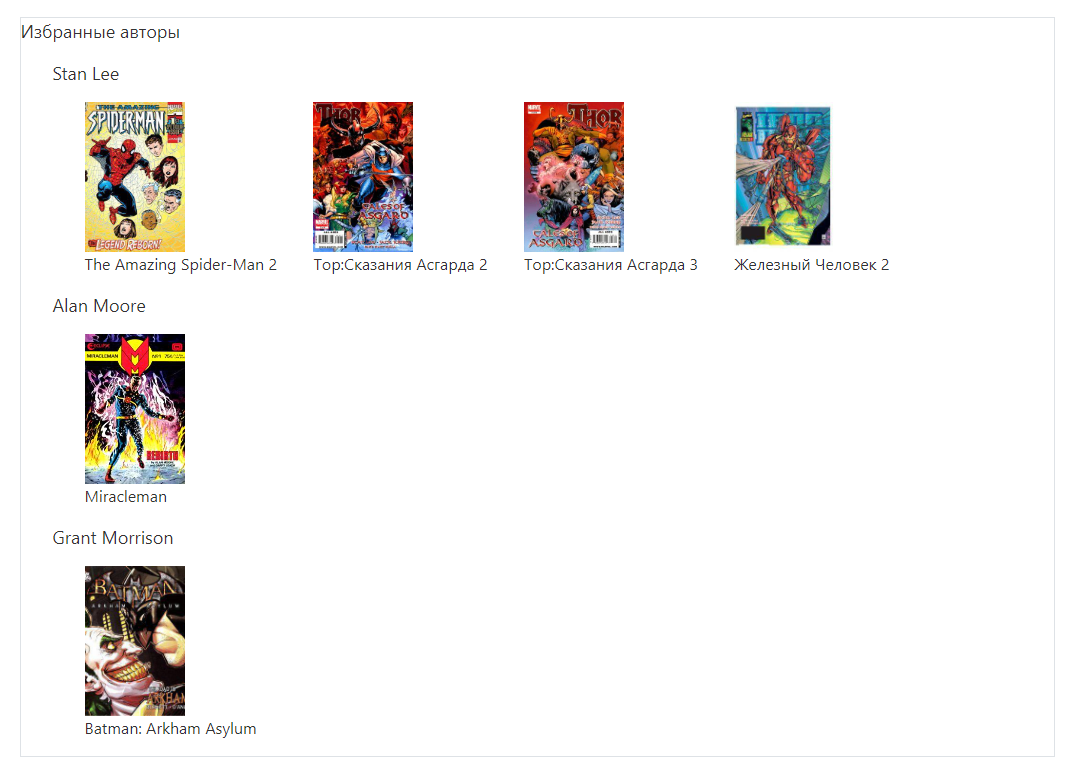
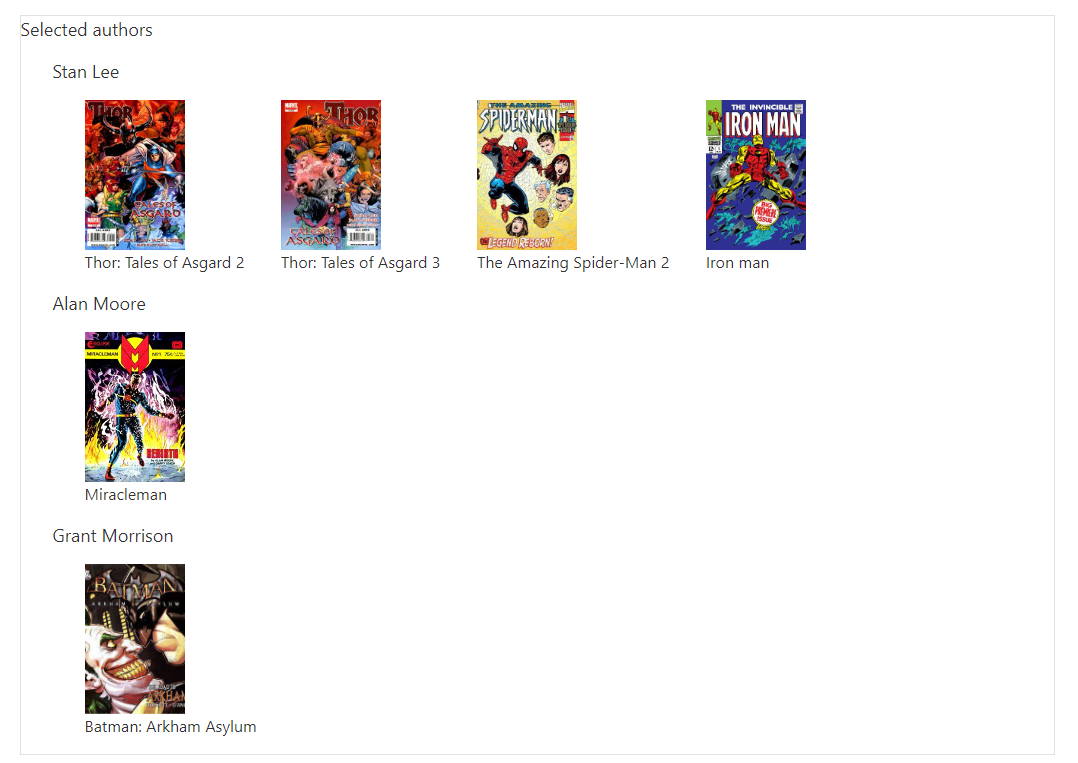
Translated README.md and comics descriptions to english

diff --git a/src/main/resources/templates/cabinet/cabinet.html b/src/main/resources/templates/cabinet/cabinet.html
@@ -17,7 +17,7 @@
     <div class=" main-container">
         <div th:replace="~{fragments/side-nav-fragment :: cabinetSideNav}"></div>
         <div class="main-content">
-            <h1 class="text-center">User account</h1>
+            <h1 class="text-center">User cabinet</h1>
 
             <!-- Authors -->
             <div style="margin-top: 20px">

diff --git a/src/main/resources/templates/fragments/side-nav-fragment.html b/src/main/resources/templates/fragments/side-nav-fragment.html
@@ -17,7 +17,7 @@
     </div>
 </div>
 <div class="sidenav col-2 mt-1 sidenav-string-link" th:fragment="cabinetSideNav">
-    <h5>Избранное</h5>
+    <h5>Selected</h5>
     <a th:href="@{/cabinet/authors}">Authors</a>
     <a th:href="@{/cabinet/artists}">Artists</a>
     <a th:href="@{/cabinet/series}">Series</a>

diff --git a/README.md b/README.md
@@ -1,10 +1,13 @@
-логин - пароль 
-ADMIN:
-admin - admin
 
-Данное MVC приложения является симулятором работы магазина комиксов.
+    Login Information:
 
-    Инструменты
+   ADMIN:
+      Username: admin
+      Password: admin
+
+This MVC app is simulator of E-shop.
+
+    Tools
 
 Back-end:
 Spring, Spring Boot, Spring MVC, Spring Security, Hibernate, Mapstruct
@@ -12,121 +15,111 @@ Spring, Spring Boot, Spring MVC, Spring Security, Hibernate, Mapstruct
 Front-end:
 HTML, CSS, JavaScript, Thymeleaf, bootstrap
 
-База данных:
+Database:
 Postgresql, Docker, Liquibase
 ______________________________________
-    Роли пользователя приложением
+    User roles
 
-Это приложение написано с учетом 3‑х ролей пользователей.
+In this app user can have 3 different roles.
 
-Далее будут описаны роли пользователей и их возможности.
-
-1) не аутентифицированный пользователь:
-   1) Просматривать
-      1) товары
-      2) авторов
-      3) серии
-      4) художников
-   2) добавлять товары в корзину
-   3) совершать покупки
-   4) регистрироваться
+1) Unauthenticated user:
+   1) Check:
+      1) goods
+      2) authors
+      3) series
+      4) artists
+   2) add goods to the cart
+   3) buy goods
+   4) register
 ______________________________________
 2) USER:
-    1) имеет все те-же возможности, что и не аутентифицированный пользователь
-    2) доступ к личному кабинету
-    3) просмотр истории покупок
-    4) добавление в избранное и отслеживание в личном кабинете 
-       1) авторов
-       2) художников 
-       3) серии
-    5) изменение личных данных (таких, как адрес)
-    6) при первой покупке, если адрес пользователя был пустым, то введенный адрес сохраняется как основной
+    1) all actions available to unauthenticated users
+    2) access to personal account
+    3) view orders history
+    4) add and view selected
+       1) authors
+       2) artists 
+       3) series
+    5) change personal information
 ______________________________________
 3) ADMIN:
-   1) имеет все те-же возможности, что и предыдущие пользователи
-   2) совершать все CRUD операции над
-      1) авторами
-      2) сериями
-      3) художниками
-      4) издательствами
-      5) комиксами
-   3) регистрировать других администраторов
+   1) all actions available to other users
+   2) perform CRUD operation:
+      1) authors
+      2) series
+      3) artists
+      4) publishers
+      5) comics
+   3) register new admins
 
 ______________________________________
-    Работа приложения
+    Application operation
 
-Данное приложения для своей работы использует Docker на портах 5432:5432 (База данных) и 5433:5433 (Adminer)
-А так-же порт 8080:8080 для хоста.
+This application uses Docker with ports 5432:5432 (database), 5433:5433 (Adminer) and 8080:8080(hosting).
 
-После клика на любой из комиксов вы попадаете в меню комикса
+After clicking on any comic you will be directed to the comic menu.
 
-<img height="696" src="src/main/resources/static/doc/comic-page.png" width="1125"/>
+<img height="686" src="src/main/resources/static/doc/comic-page.png" width="1075"/>
 
- 1 - ссылка на автора
- 2 - ссылка на художника
- 3 - ссылка на серию
+ 1 - Link to the author
+ 2 - Link to the artist
+ 3 - Link to the series
 
-При клике на кнопку "купить" комикс добавляется в корзину пользователя.
+After clicking the "Buy" button comic will be added to a user's cart.
 
-При переходе на вкладку корзины мы можем увидеть все добавленные в нее комиксы, стоимость каждого, а так-же общую стоимость
+In the cart, you can see all added comics, the price of each one and total price.
 
-<img height="315" src="src/main/resources/static/doc/cart.png" width="1112"/>
+<img height="355" src="src/main/resources/static/doc/cart.png" width="1112"/>
 
-Здесь мы можем совершать изменения над сущностями в корзине
+Here you can make changes to the items in the cart.
 
-После клика на кнопку оплатить применяются все изменения в кол-ве комиксов и происходит переход на странницу заполнения
-личной информации
+After clicking the "Buy" button, all changes in the quantity of comics is confirmed, and you proceed to personal information
+filling page.
 
-<img height="864" src="src/main/resources/static/doc/unautenficated.png" width="663"/>
-   не аутентифицированный пользователь или пользователь с не заполненной информацией<br><br><br>
+<img height="873" src="src/main/resources/static/doc/filling_page.png" width="470"/>
+   If user is authenticated and already fill personal information, the page will autofill<br><br><br>
 
+After clicking the "Continue" button, order will be saved in bd.
+in the future there are plans to add payment system and transfer all the data to it.
 ______
+If you move to an author/artist/series page, you will see all the comics associated with them. 
 
-<img height="858" src="src/main/resources/static/doc/autheticated.png" width="538"/>
-   аутентифицированный пользователь с заполненной информацией<br><br><br>
+<img height="832" src="src/main/resources/static/doc/author-page.png" width="909"/>
 
-При нажатии на кнопку продолжить происходит сохранение заказа и пользовательской информации если ее еще нет в бд.
-В противном случае она находится и подставляется в заказ. В дальнейшем будет происходить переход на систему оплаты
-и передача туда необходимой информации.
-______
-Если мы перейдем на страницу автора/художника/серии, то мы сможем увидеть все комиксы написанные им
-
-<img height="845" src="src/main/resources/static/doc/author-page.png" width="942"/>
-
-Так-же рядом с именем мы можем видеть серое сердечко. При нажатии на него аутентифицированный пользователь
-добавляет его в избранное и сердечко изменяет цвет на красное
+Near the author's name, you can see a grey heart. If authenticated user clicks on it, he will add author to selected, and 
+heart will change colour to red.
 
 <img height="94" src="src/main/resources/static/doc/folowed.png" width="269"/>
 
-В противном случае пользователь отправляется на страницу аутентификации
+In other scenario he will be redirected to a login page.
 ______
-Аутентификация происходит при нажатии на кнопку "Вход" или "Кабинет"
+Also, user can access login page by click on "Log in" or "Cabinet".
 
 <img height="401" src="src/main/resources/static/doc/login.png" width="701"/>
-Здесь можно аутентифицироваться или перейти на страницу регистрации
+Here you can log in or move to a registration page.
 
 ______
-В личном кабинете можно
-1) просматривать свою историю покупок
-2) отслеживать
-   1) авторов
-   2) художников
-   3) серии
-3) изменять личные данные
+In personal account user can:
+1) check order history
+2) track
+   1) authors
+   2) artists
+   3) series
+3) change personal information
 
-<img height="294" src="src/main/resources/static/doc/folowed_author.png" width="1063"/>
+<img height="303" src="src/main/resources/static/doc/folowed_author.png" width="1067"/>
 
-При нажатии на "Избранные авторы" пользователь может увидеть всех авторов и их комиксы,
-которых он отслеживает, а при нажатии на имя автора он перейдет на страницу автора. Это нужно, тк на самой странице не 
-отображается больше трех авторов/художников/серий и их 4-х комиксов
+In the user's cabinet you can see at most 3 selected authors/artists/series and their 4 comics.
+After clicking on "Selected authors" shows all selected authors, 
+and by clicking on the author's name you will be redirected to the author's page.
 
-В личном кабинете<br>
+In personal account<br>
 <img height="300" src="src/main/resources/static/doc/author_in_cabinet.png" width="500"/>
 
-На странице отслеживаемых авторов<br>
+On selected authors page<br>
 <img height="300" src="src/main/resources/static/doc/in_folowed_authors.png" width="500"/>
-_____
+________________________________
+    Admin features
 
-После аутентификации в роли ADMIN в верхнем навигационном меню появляется кнопка "Админ меню"
-При нажатии на нее мы переходим в меню администратора, где мы можем совершать CRUD операции над сущностями, а так-же 
-создавать новых администраторов
+After authentication as an ADMIN, an "Admin menu" button appears in the navigation menu.
+In this menu, you can perform CRUD operations on entities and create new admins.
